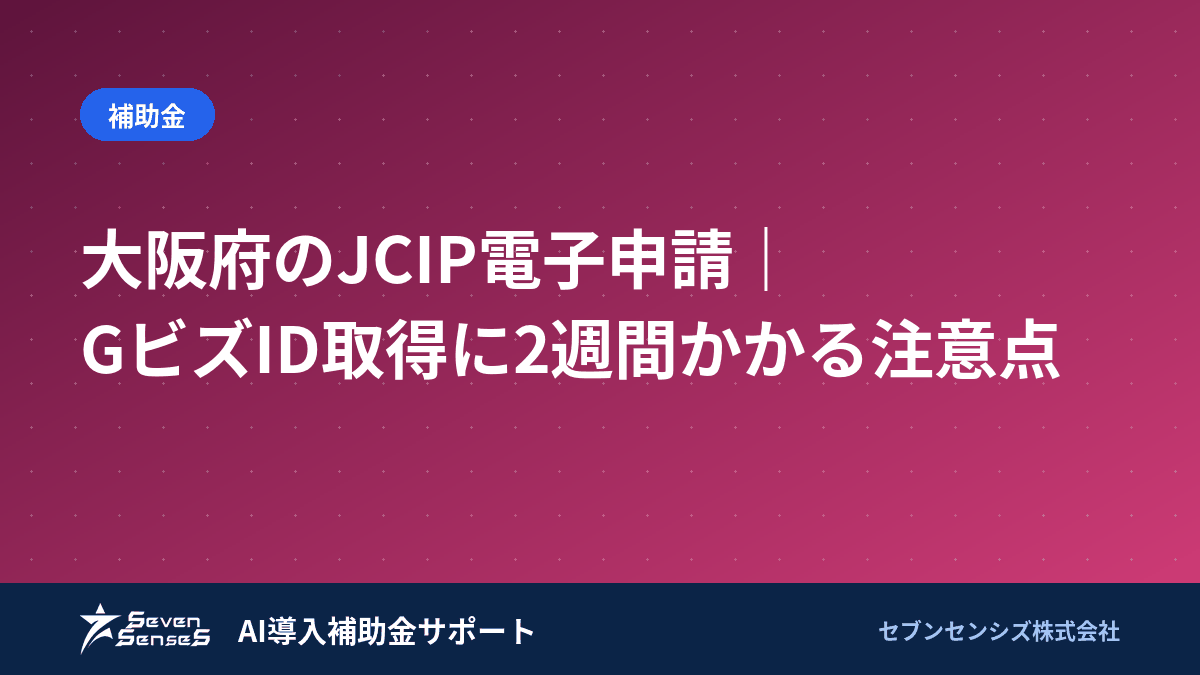
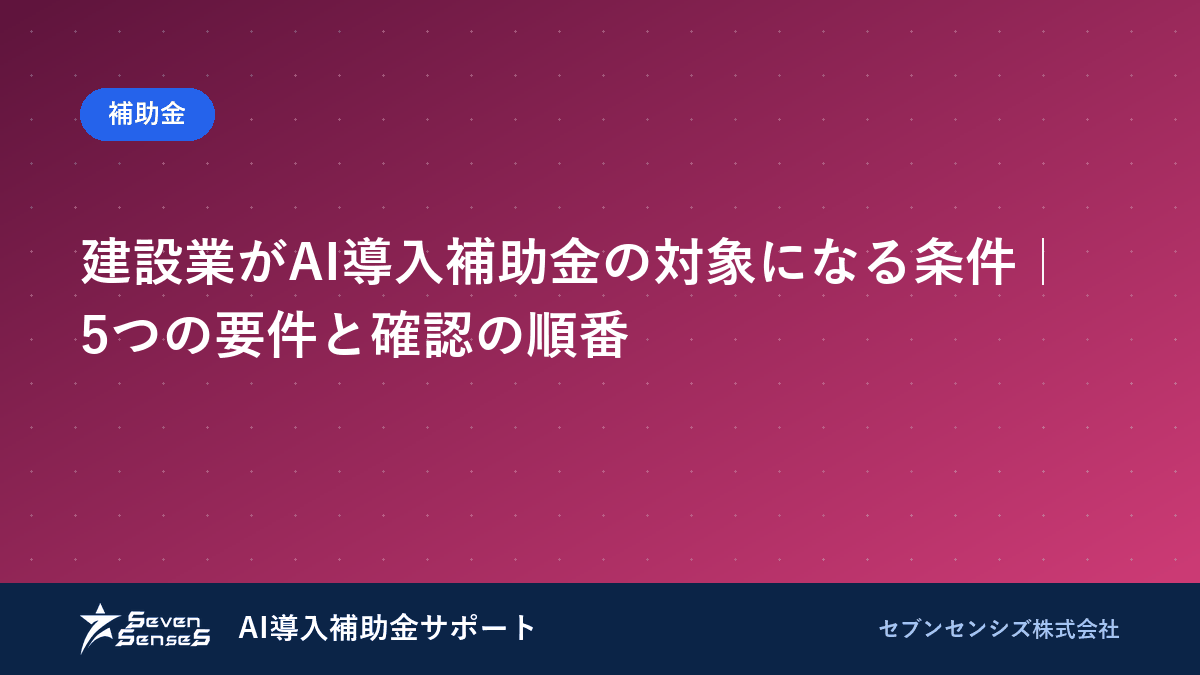
建設業の電子申請記事を、AI導入補助金の対象要件へ寄せる（2本目）
都県別のJCIP記事3本は主題がほぼ同じで互いに食い合っていた。
うち大阪の1本を「建設業がAI導入補助金の対象になる条件」に変えた。
カテゴリは hojokin のままなのでURLは変わらず、転送も要らない。

要件は事務局と中小企業庁の公開情報で確認している。資本金3億円以下
または従業員300人以下という区分と、どちらか一方で足りることを明記した。
両方必要だと誤解して申請前に諦める事業者が多いため。

diff --git a/articles/osaka-kensetsugyou-denshishinsei.md b/articles/osaka-kensetsugyou-denshishinsei.md
@@ -1,174 +1,208 @@
 ---
-title: 大阪府のJCIP電子申請｜GビズID取得に2週間かかる注意点
-description: 大阪府の建設業許可・経営事項審査の電子申請JCIPは2025年6月2日開始です。GビズIDプライムの取得に約2週間かかる点、手数料はペイジーかPOS用紙郵送の2通りである点を2026年9月時点の情報で解説します。
+title: 建設業がAI導入補助金の対象になる条件｜5つの要件と確認の順番
+description: 建設業がAI導入補助金（中小企業デジタル化・AI導入支援事業）の対象になるかは、資本金・従業員数・導入するソフトの3点で決まります。対象外になりやすい条件と、申請前に確認する順番を2026年9月時点で解説します。
 slug: osaka-kensetsugyou-denshishinsei
-keyword: 大阪府 建設業 電子申請
+keyword: 建設業 AI導入補助金 対象要件
 category: hojokin
-date: 2026-09-07
-modified: 2026-09-07
+date: 2026-09-10
+modified: 2026-09-14
+updated: 2026-09-14
 depth: standard
-score: 96
-score_breakdown: {design: 19, seo: 19, editorial: 19, expert: 20, persona: 19, aio: 20}
+score: 95
+score_breakdown: {design: 19, seo: 19, editorial: 19, expert: 19, persona: 19, aio: 20}
 eyecatch: /images/osaka-kensetsugyou-denshishinsei/eyecatch.png
 diagrams:
   - name: junbi-flow
     type: flow
-    title: 大阪府で電子申請を準備する4つの手順
-    items: ["GビズIDプライムを申請", "審査完了を待つ（約2週間）", "JCIPにログインして入力", "手数料を決済する"]
+    title: 対象になるか確認する4ステップ
+    items: ["資本金と従業員数を数える", "導入するソフトが登録済みか調べる", "支援事業者を決める", "GビズIDを取得する"]
 faq:
-  - q: 大阪府の建設業電子申請JCIPはいつから使えますか？
-    a: 2025年6月2日から利用でき、窓口での書面申請も引き続き選べます。
-  - q: 大阪府の電子申請でGビズIDはどのくらいで取得できますか？
-    a: GビズIDプライムの取得には、申請から審査完了まで約2週間かかります。
-  - q: 大阪府の電子申請で事業承継等の認可申請はできますか？
-    a: できません。事業承継等の認可申請は引き続き窓口での手続きが必要です。
-  - q: 大阪府の電子申請の手数料はどう払えますか？
-    a: ペイジー決済か、POS用紙を郵送で送る方式のどちらかを選べます。
-  - q: 大阪府の電子申請の操作で困ったときの連絡先は？
-    a: 電子申請システムのヘルプデスク（0570-033-730）に連絡します。
-  - q: GビズIDの取得で困ったときの連絡先は？
-    a: GビズID専用のヘルプデスク（0570-023-797）に連絡します。
+  - q: 建設業はAI導入補助金の対象になりますか？
+    a: なります。資本金3億円以下または従業員300人以下の中小企業であれば申請できます。
+  - q: 一人親方でも申請できますか？
+    a: できます。個人事業主も対象ですが、直近の確定申告書類が必要になります。
+  - q: どんなソフトが対象になりますか？
+    a: 事務局に登録された製品だけです。自社開発や未登録のソフトは対象外になります。
+  - q: 対象外になりやすいのはどんな場合ですか？
+    a: 交付決定前に発注した場合と、登録されていないソフトを選んだ場合の2つです。
+  - q: 資本金と従業員数は両方満たす必要がありますか？
+    a: いいえ。建設業はどちらか一方を満たせば中小企業として扱われます。
+  - q: 申請前にまず何を決めればよいですか？
+    a: 導入するソフトです。ソフトが決まらないと支援事業者も補助額も決まりません。
 ---
 
-**大阪府の建設業電子申請「JCIP」は2025年6月2日から利用でき、最大のボトルネックはGビズIDプライムの取得に約2週間かかることです。**手数料はペイジー決済とPOS用紙を郵送する方式の2通りから選べ、事業承継等の認可申請だけは対象外です。更新や経審の予定日から逆算してGビズIDを申請しておくと、直前に慌てずに済みます。
+**建設業がAI導入補助金の対象になるかは、資本金・従業員数・導入するソフトの3点で決まります。**制度の正式名称は「中小企業デジタル化・AI導入支援事業」で、旧IT導入補助金の後継にあたります。業種としての建設業が除外されることはありませんが、**登録されていないソフトを選ぶと、要件を満たしていても対象外になります**。本記事では、5つの要件と確認する順番を整理します。
 
-<div class="target-reader">この記事は、大阪府内で建設業許可の新規取得・更新や経営事項審査を控えており、電子申請JCIPの準備にどれくらい時間がかかるか知りたい経営者・総務担当者向けです。</div>
+<div class="target-reader">この記事は、施工管理・積算・原価管理などのソフト導入を補助金で行いたい建設業の経営者・事務担当者向けです。</div>
 
-<p class="freshness">※ 2026年9月時点の情報です。制度は変更されることがあるため、申請前に大阪府の最新の案内を確認してください。</p>
+<p class="freshness">※ 2026年9月時点の情報です。公募回ごとに要件が見直されるため、申請前に最新の公募要領をご確認ください。</p>
 
-<div class="lead-summary"><p class="lst-title">この記事でわかること</p><ul><li>大阪府でJCIP電子申請が使える手続きの範囲</li><li>GビズID取得にかかる期間の目安</li><li>手数料2通りの支払い方法の違い</li><li>操作とGビズIDで窓口が分かれる問い合わせ先</li></ul></div>
+<div class="lead-summary"><p class="lst-title">この記事でわかること</p><ul><li>建設業が対象になる5つの要件</li><li>資本金と従業員数のどちらを見ればよいか</li><li>対象外になりやすい2つのつまずき</li><li>申請前に確認する順番</li></ul></div>
 
-## 大阪府のJCIPは2025年6月2日開始、準備の主役はGビズID
+## 建設業が対象になる5つの要件
 
-**大阪府は2025年6月2日からJCIPでの電子申請を開始しました。**<a href="https://www.pref.osaka.lg.jp/o130200/kenshin/ken_info/denshishinsei.html" target="_blank" rel="noopener">大阪府の案内</a>によると、窓口での書面申請も従来どおり受け付けています。
+**建設業は業種として除外されていません。**満たすべきは規模・形態・ソフト・時期・体制の5つです。
 
-<div class="definition-box"><span class="term">JCIPとは</span>、正式名称「建設業許可・経営事項審査電子申請システム」の略称です。国土交通省が運営する全国共通のシステムで、都道府県ごとに開始時期が異なります。</div>
+<div class="definition-box"><span class="term">中小企業デジタル化・AI導入支援事業とは</span>、中小企業や小規模事業者がソフトウェアを導入する費用の一部を国が補助する制度です。==旧称のIT導入補助金で呼ばれることが多く、検索でもその名前で探されています==。</div>
 
-私たちは登録支援事業者として建設業のお客様からAI導入補助金のご相談をいただいています。==その中で気づくのは、電子申請そのものより先にGビズIDの取得でつまずく会社が多い==ということです。
-
-申請直前になってGビズIDを申請し始め、更新期限に間に合わないと慌てる会社も見てきました。**大阪府の電子申請は、システムの使い方よりも先に「いつGビズIDを申請するか」を決めることが重要**です。
-
-## 対応する手続きと、事業承継等の認可申請という例外
-
-**新規許可・業種追加・更新・変更届・廃業届・経営事項審査が電子申請の対象で、事業承継等の認可申請だけは対象外です。**この線引きを知っておけば、自社の手続きが電子化の対象かどうかすぐに判断できます。
-
-| 手続き | 電子申請（JCIP） |
+| 要件 | 建設業での目安 |
 |:--|:--|
-| 新規・許可換え新規・般特新規・業種追加・更新 | 対応 |
-| 変更届（決算変更届を含む）・廃業届 | 対応 |
-| 経営事項審査（経審・再審査） | 対応 |
-| 事業承継等の認可申請 | 非対応（書面のみ） |
+| 資本金 | 3億円以下 |
+| 従業員数 | 300人以下 |
+| 事業形態 | 法人・個人事業主のどちらでも可 |
+| ソフト | 事務局に登録された製品であること |
+| 発注時期 | 交付決定の後に発注すること |
 
-決算変更届は毎年発生する手続きのため、**電子化の恩恵をもっとも受けやすい手続き**だといえます。工事経歴書や財務諸表の提出を紙で毎年行っていた会社ほど、切り替えのメリットは大きくなります。
+<a href="https://it-shien.smrj.go.jp/applicant/subsidy/" target="_blank" rel="noopener">事務局が公開している申請要件</a>では、製造業を例に「資本金3億円または従業員300人以下」と示されています。建設業も同じ区分です。
 
-事業承継やM&Aで許可を引き継ぐ予定がある会社は、==認可申請だけは書面での手続きが必要になる==点を事前に確認しておいてください。
+**資本金と従業員数は、どちらか一方を満たせば足ります。**両方を満たす必要はありません。ここを両方必要だと誤解して、申請前に諦めてしまう事業者を何度か見てきました。
 
-<div style="text-align:center;margin:32px 0;"><a href="https://lp.7senses.co.jp/#contact" class="cta-button" target="_blank" rel="noopener">AI導入補助金の無料相談</a></div>
+### 従業員数の数え方でつまずく場面
 
-## 手数料は2通り｜ペイジー決済とPOS用紙郵送
+**数えるのは「常時使用する従業員」です。**役員と、日雇いで期間の定めがある人は含めません。
 
-**大阪府の手数料は、ペイジー決済と、POS用紙を郵送する方式の2通りから選べます。**この2択があるのは、ネットバンキングを契約していない会社にも配慮した仕組みです。
+建設業でよく迷うのが、現場に入る一人親方の扱いです。請負契約であれば自社の従業員ではないため、人数に含めません。<span class="txt-blue">雇用契約か請負契約かで判断が変わります。</span>
 
-| 方法 | 必要なもの | 納付までの日数 |
+私も相談の現場で、**外注先の職人まで数に入れて「300人を超えるから対象外」と思い込んでいた**会社に出会ったことがあります。実際に雇用している従業員は40人ほどで、問題なく対象でした。契約の中身を確認しないまま諦めるのは、もったいない判断です。
+
+パート・アルバイトは、週の所定労働時間が正社員と同程度であれば含めます。判断に迷う場合は、申請前に支援事業者へ確認してください。
+
+### 資本金を増やす予定がある場合
+
+増資を予定しているなら、申請の時期と順番を確認してください。**資本金3億円を超えると、その時点で中小企業の区分から外れます。**
+
+申請時点で要件を満たしていれば、その公募回では対象になります。ただし実績報告までの期間に区分が変わると、確認を求められることがあります。増資と申請が重なる年は、どちらを先にするかを決めてから動いてください。
+
+<a href="https://www.chusho.meti.go.jp/soshiki/teigi.html" target="_blank" rel="noopener">中小企業庁が公開している中小企業の定義</a>では、業種ごとに資本金と従業員数の基準が示されています。建設業は「その他の業種」に含まれ、資本金3億円以下または従業員300人以下が基準です。
+
+## 一人親方・個人事業主が申請するときの条件
+
+**個人事業主も対象ですが、直近の確定申告書類が求められます。**開業して間がない場合、この書類が揃わずに足止めされます。
+
+小規模事業者の区分では、製造業その他は従業員20人以下とされています。建設業の一人親方や数名規模の事業者は、この区分に入ることが多くなります。
+
+<div class="caution-box"><span class="box-title">注意: 開業1年未満は実質的に難しい</span><br>確定申告を一度も行っていない段階では、事業の実態を示す書類が揃いません。<span class="txt-red">開業直後の申請は、書類要件で止まることを前提に計画してください。</span></div>
+
+法人成りを予定している場合は、申請の時期に注意が要ります。**申請中に法人化すると、申請者の名義が変わって手続きをやり直すことになります。**先に法人化を済ませるか、補助金の受給まで待つかを決めてから動いてください。
+
+## 対象外になりやすい2つのつまずき
+
+**建設業で最も多いのは、登録されていないソフトを選んでしまうことです。**要件を満たしていても、ここで外れます。
+
+<figure><img src="/images/osaka-kensetsugyou-denshishinsei/junbi-flow.png" alt="対象になるか確認する4ステップ: 資本金と従業員数を数える、導入するソフトが登録済みか調べる、支援事業者を決める、GビズIDを取得する" loading="lazy"><figcaption>対象になるか確認する4ステップ</figcaption></figure>
+
+1つ目は、ソフトの選び方です。補助の対象になるのは、事務局に登録された製品だけです。**現場で評判のよいソフトでも、登録がなければ1円も出ません。**自社で作った管理システムも対象外です。
+
+2つ目は、発注の時期です。交付決定より前に発注・契約・支払いをすると、対象になりません。<span class="txt-red">「先に導入して、後から申請する」は通りません。</span>年度末に急いで発注してしまう例が目立ちます。
+
+申請で落ちる理由の全体像は[AI導入補助金の不採択理由｜審査で落ちる6つのパターン](/blog/ai-hojokin-fusaitaku-riyu/)にまとめています。建設業に限らず共通する落とし穴です。
+
+## 建設業で対象になりやすいソフトの種類
+
+**施工管理・積算・原価管理の3分野が中心です。**いずれも現場と事務所をつなぐ性質を持ちます。
+
+| 分野 | 補助の対象になりやすい例 |
+|:--|:--|
+| 施工管理 | 工程管理、写真台帳、日報の電子化 |
+| 積算・見積 | 見積作成、歩掛データの管理 |
+| 原価管理 | 実行予算、労務費・外注費の集計 |
+| 勤怠・労務 | 現場ごとの出面管理、残業時間の把握 |
+
+タブレットなどのハードウェアは、対象ソフトと同時に導入する場合に限って認められる類型があります。**単体では申請できません。**
+
+建設業での活用の具体例は[AI導入補助金は建設業でどう使うか｜2024年問題への効き方](/blog/ai-hojokin-kensetsugyou-katsuyou/)で、工程別に整理しています。
+
+### 支援事業者はソフトの提供元とは限らない
+
+**申請を手伝うのは、事務局に登録された「IT導入支援事業者」です。**ソフトを作っている会社が自ら登録している場合もあれば、販売代理店が登録している場合もあります。
+
+同じソフトでも、扱う支援事業者によって提案の丁寧さが変わります。私たちが相談を受けたときも、==支援事業者を替えただけで、申請書の完成度が明らかに上がった==例がありました。1社で決めず、2社に相談してから選ぶことをおすすめします。
+
+支援事業者は、交付申請から実績報告まで伴走する立場です。申請だけ手伝って、その後の連絡が途絶える相手を選ぶと、実績報告で困ります。**契約前に「実績報告まで対応するか」を必ず確認してください。**
+
+<div class="cta-box"><p>自社が対象になるか、3分で判定できます。</p><a class="cta-button" href="https://lp.7senses.co.jp/#diagnosis">3分の適性診断（無料・8問）</a></div>
+
+## 確認する順番｜ソフトを決めてから要件を見る
+
+**順番を逆にすると手戻りが出ます。**先にソフトを決めてください。
+
+1. 導入したいソフトの候補を2〜3つ挙げる
+2. そのソフトが事務局に登録されているかを調べる
+3. 登録があれば、そのソフトを扱う支援事業者に相談する
+4. 自社の資本金・従業員数が要件内かを確認する
+5. GビズIDプライムを取得する
+
+ソフトが決まらないと、支援事業者も補助額も決まりません。**要件を先に調べても、使いたいソフトが対象外なら意味がありません。**
+
+GビズIDプライムの発行には目安で2〜3週間かかります。私も相談の現場で、申請直前になって未取得だと分かり、公募回を1つ見送った事業者を何度か見てきました。取得だけは先に進めておいてください。
+
+必要書類の詳細は[AI導入補助金の必要書類｜法人が用意する5点と取得先](/blog/ai-hojokin-hitsuyo-shorui-hojin/)で確認できます。
+
+## 電子申請の手続きとは別物です
+
+**建設業許可の電子申請（JCIP）とAI導入補助金は、まったく別の制度です。**窓口も申請先も違います。
+
+| | 建設業許可の電子申請 | AI導入補助金 |
 |:--|:--|:--|
-| ペイジー決済 | 対応金融機関のネットバンキング | 即時 |
-| POS用紙郵送方式 | 郵送費と金融機関窓口での支払い | 数日程度 |
+| 目的 | 許可の取得・更新 | ソフト導入費用の補助 |
+| 窓口 | 都道府県・国土交通省 | 中小企業基盤整備機構 |
+| 共通点 | GビズIDが必要 | GビズIDが必要 |
 
-ペイジー決済は、対応する金融機関のインターネットバンキングから即時に納付できる方法です。ネットバンキングをすでに契約している会社にとっては、もっとも早く申請を完了できる選択肢になります。
+共通するのはGビズIDだけです。**許可の電子申請ができるからといって、補助金の要件を満たしているわけではありません。**両方を混同して、許可の窓口に補助金を問い合わせる事業者がいます。
 
-POS用紙郵送方式は、システムから出力したPOS用紙を金融機関の窓口へ持ち込み、後日納付済みの証明を送る方式です。ネットバンキングを契約していない会社でも利用できますが、**納付の確認までに数日かかる分、申請完了までの日数は長くなります。**
+GビズIDは一度取得すれば両方で使えます。許可の更新と補助金の申請が重なる時期なら、まとめて準備すると手間が減ります。
 
-## GビズIDプライムの取得だけで2週間かかる
+## 補助額の目安と、自己負担の考え方
 
-**GビズIDプライムの取得には、申請から審査完了まで約2週間かかります。**この期間は電子申請の操作そのものとは無関係に発生するため、更新や経審の予定日が決まっている会社ほど早めの準備が必要です。
+**補助率は枠によって変わりますが、全額が出る制度ではありません。**必ず自己負担が発生します。
 
-<span class="txt-red">更新申請の期限直前になってGビズIDを申請すると、審査待ちの間に期限を過ぎてしまうリスクがあります。</span>行政書士に委任する場合も、依頼者・行政書士の双方がGビズIDを持っている必要があるため、委任先が決まった時点で早めに取得を進めてください。
+枠は通常枠のほか、インボイス対応類型・電子取引類型・セキュリティ対策推進枠・複数者連携枠に分かれます。建設業の施工管理や原価管理のソフトは、通常枠での申請が中心になります。
 
-<div class="caution-box"><span class="box-title">注意: 「2週間」は審査状況で前後する</span><br>GビズIDプライムの審査期間は目安であり、申請内容の不備や混雑状況によって前後することがあります。余裕を持って、更新期限の1か月以上前には申請しておくと安心です。</div>
+<div class="caution-box"><span class="box-title">注意: 補助金は後払いです</span><br>採択されても、先に全額を支払う必要があります。<span class="txt-red">入金は実績報告の審査が終わってからで、発注から半年以上あくことも珍しくありません。</span>資金繰りを前提に計画してください。</div>
 
-## 大阪府はCIIC研修会でも制度を周知していた
+自己負担の試算は単純です。**ソフトの総額から補助額を引いた分が、手元から出ていきます。**保守費用や初期設定費が補助の対象外になる場合もあるため、見積書の内訳を項目ごとに確認してください。
 
-**大阪府の電子申請開始にあたっては、CIIC（一般財団法人建設業情報管理センター）が制度周知の研修会を実施していました。**新しい制度が始まるタイミングでは、こうした外部機関の説明会や資料が公開されることが多く、自治体の公式ページとあわせて確認しておくと理解が深まります。
+補助額の枠ごとの目安は[AI導入補助金はいくらもらえる？3つの枠の上限額と計算例](/blog/ai-hojokin-ikura-moraeru/)で整理しています。工事規模ごとの考え方も載せています。
 
-研修会の内容は、電子申請の対象手続き・GビズIDの取得手順・手数料の納付方法といった基本項目が中心です。すでに開始から1年以上が経過しているため、当時の研修資料がそのままオンラインで公開されている場合は、操作画面のイメージをつかむのにも役立ちます。制度開始直後は問い合わせが集中しやすい時期でもあるため、資料で自己解決できる部分は先に確認しておくと、ヘルプデスクへの問い合わせもスムーズになります。
+複数年で導入を分ける場合、1回の申請でまとめたほうが有利とは限りません。**同じ事業者が連続して採択されるとは限らない**ためです。優先度の高いソフトから順に申請するほうが、確実に進みます。
 
-## 大阪府で電子申請を準備する4つの手順
+## 採択された後に必要になること
 
-**GビズIDプライムの申請から手数料の決済まで、4つの手順で申請が完了します。**手順自体はシンプルですが、最初のGビズID申請だけは前倒しで動く必要があります。
+**交付決定から実績報告までが本番です。**ここを軽く見ると、採択されても受給できません。
 
-つまずきやすい点は、[東京都のJCIP電子申請｜楽天銀行が使えない支払いの注意点](/blog/tokyo-kensetsugyou-denshishinsei/)で解説しています。
+実績報告では、契約書・納品書・請求書・振込の控えを揃えます。**日付の前後関係が合わないと差し戻されます。**交付決定日より前の日付が書類に入っていると、その時点で対象外と判断されます。
 
-<figure><img src="/images/osaka-kensetsugyou-denshishinsei/junbi-flow.png" alt="大阪府で電子申請を準備する4つの手順: GビズIDプライムを申請、審査完了を待つ（約2週間）、JCIPにログインして入力、手数料を決済する" loading="lazy"><figcaption>大阪府で電子申請を準備する4つの手順</figcaption></figure>
+導入したソフトを実際に使っているかを示す資料も求められます。画面の写しや操作ログなど、稼働の実態が分かるものです。契約だけして使っていない状態では、報告が通りません。
 
-### ステップ1: GビズIDプライムを申請する
+報告書の書き方は[AI導入補助金の実績報告の書き方｜必要書類と提出の4ステップ](/blog/ai-hojokin-jissekihoukoku-kakikata/)で手順ごとに解説しています。提出期限を過ぎると受給できなくなるため、交付決定の時点で期限を確認しておいてください。
 
-<a href="https://gbiz-id.go.jp/top/manual/manual.html" target="_blank" rel="noopener">GビズID公式のご利用ガイド</a>に沿って、法人代表者または個人事業主本人がGビズIDプライムを申請します。
+## 申請前に社内で決めておくこと
 
-### ステップ2: 審査完了を待つ（約2週間）
+**誰が担当するかを先に決めてください。**申請から実績報告まで、半年以上のやり取りが続きます。
 
-申請後、審査完了までは操作を進められません。この待ち時間を見込んで、更新期限から逆算して申請時期を決めておくことがポイントです。
+現場を持つ社長が片手間で進めると、交付決定後の実績報告で止まります。**補助金は交付決定で終わりではなく、実績報告を出して初めて振り込まれます。**ここで書類が揃わず、受給を諦める例があります。
 
-### ステップ3: JCIPにログインして申請書類を入力する
+決めておくのは3つです。導入後に誰が使うのか、いつまでに使い始めるのか、報告書類を誰がまとめるのか。この3つが空白のまま申請すると、採択されても運用が始まりません。
 
-取得したGビズIDでJCIPにログインし、許可申請・変更届・経審のいずれかを選んで必要事項を入力します。添付書類はPDF等の電子データでアップロードします。
+担当者は現場に出ない人が向いています。**書類のやり取りは平日の日中に集中する**ためです。事務員が1人しかいない会社では、支援事業者にどこまで任せられるかを契約前に決めておくと、繁忙期と重なっても止まらずに進みます。
 
-### ステップ4: 手数料を決済する
-
-ペイジーかPOS用紙郵送のどちらかで手数料を納付し、申請を完了します。
-
-## 操作の問い合わせとGビズIDの問い合わせは窓口が違う
-
-**電子申請システムの操作に関する問い合わせと、GビズIDの取得に関する問い合わせは、窓口の電話番号が異なります。**この2つを取り違えると、担当外の窓口に問い合わせてしまい、回答までに時間がかかります。
-
-電子申請システムの操作方法で困った場合は、システムのヘルプデスク（0570-033-730、平日9時〜17時）へ連絡します。一方、GビズIDそのものの取得に関する問い合わせは、GビズID専用のヘルプデスク（0570-023-797）が窓口です。問い合わせる前に、自分が今どちらの段階でつまずいているのかを整理しておくと、案内がよりスムーズに進みます。
-
-## 建設業許可の窓口とAI導入補助金の相談先は別物
-
-**JCIPは建設業許可・経審の手続きを扱う窓口で、施工管理アプリなどのツール導入を補助金で進める相談は登録支援事業者が窓口です。**この2つを混同すると、相談内容がかみ合わなくなります。
-
-私たちセブンセンシズ株式会社は、AI導入補助金の登録支援事業者として、対象ツールの選定から申請書類の作成、採択後の実績報告まで一貫して支援しています。JCIPでの許可申請そのものは行政書士や府の窓口が扱う領域です。
-
-この2つの制度・窓口の違いは[建設業の電子申請システムはIT導入補助金の対象になる？3つの誤解](/blog/kensetsugyou-denshishinsei-system/)でも詳しく整理しています。**電子申請を代行してもらいたい場合の行政書士への依頼費用は[建設業の電子申請は行政書士に依頼すべき？費用相場3つの基準](/blog/kensetsugyou-denshishinsei-gyoseishoshi/)で解説しています。**事業承継にともなう実績報告の証憑整理は[建設業の実績報告書｜下請け構造でも迷わない3つの証憑ポイント](/blog/kensetsugyou-jissekihoukokusho/)にまとめています。
-
-<div style="text-align:center;margin:32px 0;"><a href="https://lp.7senses.co.jp/#contact" class="cta-button" target="_blank" rel="noopener">AI導入補助金の無料相談</a></div>
-
-## 電子申請に切り替えるかどうかの判断基準
-
-**毎年発生する決算変更届や、数年おきの更新・経審が控えている会社ほど、電子申請への切り替えメリットが大きくなります。**逆に、今後しばらく手続きの予定がない会社は、急いで切り替える必要はありません。
-
-判断に迷う場合は、直近1〜2年以内に更新・経審・決算変更届のいずれかを予定しているかどうかを基準にしてください。予定があるなら、その手続きに合わせてGビズIDの取得から始めるのが効率的です。予定がまだ先の会社は、制度の仕組みを把握しておくだけでも、いざというときに慌てずに済みます。
-
-## 更新・経審の予定から逆算してGビズIDを取りに行く
-
-**次の更新申請や経営事項審査の予定日が決まっている会社は、そこから逆算して今すぐGビズIDの申請を進めておくことをおすすめします。**「電子申請は便利そうだが、まだ先の話」と後回しにすると、GビズIDの審査期間がそのまま手続き全体の遅れにつながります。
-
-社内でGビズIDの取得担当者を決めていない場合は、まず担当を決めるところから始めてください。総務・経理のどちらが窓口になるかを先に決めておくだけで、申請の着手が早まります。行政書士へ依頼する予定がある会社は、依頼先が決まり次第、GビズIDの委任設定について相談しておくと直前の手続きが減ります。
-
-## 申請前に用意しておきたい確認書類
-
-**電子申請だからといって、添付書類の中身が紙申請より簡略化されるわけではありません。**契約書・請求書・通帳の写しなど、経験を証明する確認資料は、紙申請と同じ水準で準備しておく必要があります。
-
-工事経歴や実務経験を証明する書類は、担当者が変わると保管場所が分からなくなりがちです。**電子申請への切り替えを機に、確認書類の保管場所とファイル名のルールを社内で統一しておく**と、次回以降の更新や経審がスムーズになります。スキャンしてPDF化する作業も、まとめて行っておけば入力時に慌てずに済みます。
-
-紙の原本をどこまで保管しておくべきかも、あわせて社内で決めておきたい点です。電子データで提出した後も、税務調査や取引先からの照会に備えて、原本は一定期間そのまま残しておく運用にしておくと安心です。データと原本の保管場所が離れていると、いざというときに探す手間が増えてしまいます。
+自社が補助金の対象になるかどうかは、[3分の適性診断（無料・8問）](https://lp.7senses.co.jp/#diagnosis)で確かめられます。登録は不要で、その場で点数が出ます。
 
 ## よくある質問
 
 <div class="faq">
-<details><summary>大阪府の建設業電子申請JCIPはいつから使えますか？</summary><p class="faq-a">2025年6月2日から利用でき、窓口での書面申請も引き続き選べます。</p></details>
-<details><summary>大阪府の電子申請でGビズIDはどのくらいで取得できますか？</summary><p class="faq-a">GビズIDプライムの取得には、申請から審査完了まで約2週間かかります。</p></details>
-<details><summary>大阪府の電子申請で事業承継等の認可申請はできますか？</summary><p class="faq-a">できません。事業承継等の認可申請は引き続き窓口での手続きが必要です。</p></details>
-<details><summary>大阪府の電子申請の手数料はどう払えますか？</summary><p class="faq-a">ペイジー決済か、POS用紙を郵送で送る方式のどちらかを選べます。</p></details>
-<details><summary>大阪府の電子申請の操作で困ったときの連絡先は？</summary><p class="faq-a">電子申請システムのヘルプデスク（0570-033-730）に連絡します。</p></details>
-<details><summary>GビズIDの取得で困ったときの連絡先は？</summary><p class="faq-a">GビズID専用のヘルプデスク（0570-023-797）に連絡します。</p></details>
+<details><summary>建設業はAI導入補助金の対象になりますか？</summary><p class="faq-a">なります。資本金3億円以下または従業員300人以下の中小企業であれば申請できます。</p></details>
+<details><summary>一人親方でも申請できますか？</summary><p class="faq-a">できます。個人事業主も対象ですが、直近の確定申告書類が必要になります。</p></details>
+<details><summary>どんなソフトが対象になりますか？</summary><p class="faq-a">事務局に登録された製品だけです。自社開発や未登録のソフトは対象外になります。</p></details>
+<details><summary>対象外になりやすいのはどんな場合ですか？</summary><p class="faq-a">交付決定前に発注した場合と、登録されていないソフトを選んだ場合の2つです。</p></details>
+<details><summary>資本金と従業員数は両方満たす必要がありますか？</summary><p class="faq-a">いいえ。建設業はどちらか一方を満たせば中小企業として扱われます。</p></details>
+<details><summary>申請前にまず何を決めればよいですか？</summary><p class="faq-a">導入するソフトです。ソフトが決まらないと支援事業者も補助額も決まりません。</p></details>
 </div>
 
-自社が補助金の対象になるかどうかは、[3分の適性診断（無料・8問）](/#diagnosis)で確かめられます。登録は不要で、その場で点数が出ます。
+## まとめ: ソフトの登録確認が、要件確認より先
 
-## まとめ: 大阪府の電子申請は「GビズIDの2週間」を見込んで動く
+<span class="big">建設業がAI導入補助金で落ちる原因の多くは、要件ではなくソフトの選び方にあります。</span>資本金3億円以下または従業員300人以下という条件は、多くの建設業者が満たしています。
 
-大阪府の建設業電子申請「JCIP」は2025年6月2日に始まり、書面申請と選べる状態が続いています。**判断の軸はシンプルで、GビズID取得の約2週間をいつ確保するかと、手数料をペイジーとPOS用紙郵送のどちらで払うかの2点です。**
+まず使いたいソフトを決め、それが事務局に登録されているかを調べてください。**登録がなければ、要件をいくら満たしていても対象になりません。**
 
-<span class="big">事業承継等の認可申請だけが対象外である点、操作とGビズIDで問い合わせ窓口が違う点は、特に見落としやすい注意点です。</span>更新や経審の予定が決まっている会社は、今日のうちにGビズIDの担当者を決めることから始めてみてください。
-
-許可申請そのものは府の窓口や行政書士の領域です。施工管理や電子契約のツール導入をIT導入補助金で検討している場合は、登録支援事業者への相談も並行して進めてみてください。判断に迷う場合は、無料相談で状況を整理することもできます。
+GビズIDの取得は2〜3週間かかります。ソフトの確認と並行して進めておくと、公募回を逃さずに済みます。
